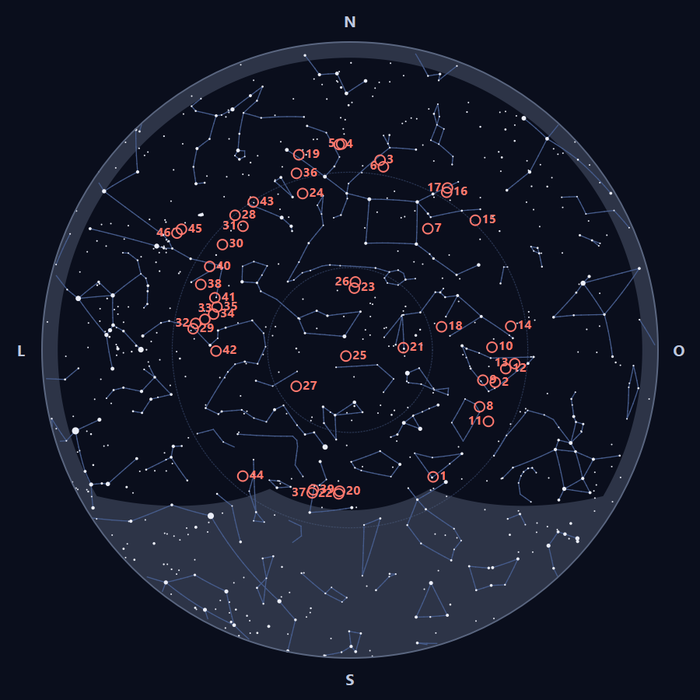
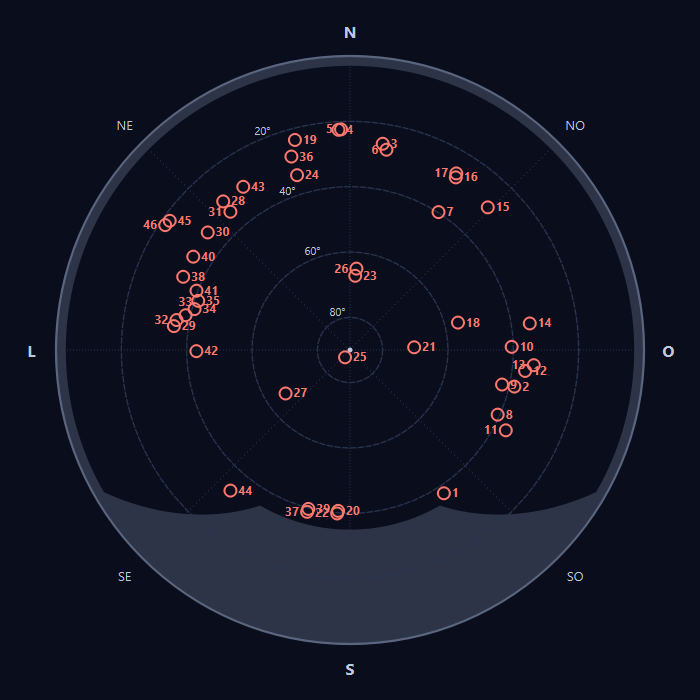
fix: rastreamento perto do polo, gráfico anual a partir de 0° e mapa da noite sem estrelas
- B-025: no rastreamento, a variável que espelha o azimute era
  sobrescrita no laço dos rótulos e os pontos seguintes saíam da carta
  (NGC 104). Marcador a cada 30 min, rótulos '19h' nas horas cheias e
  linha guia quando o rótulo se afasta do ponto.
- Gráfico de altitude ao longo do ano: 0° é a base, nada abaixo do
  horizonte é exibido; leitura ao pairar diz 'abaixo do horizonte'.
- Mapa da noite do PDF: sem estrelas e constelações (não correspondiam
  às posições dos alvos, cada um num horário); círculos de 20°, 40°,
  60° e 80°, oito pontos cardeais e rumos, projeção equidistante.

diff --git a/src/carina/ui/finderchart.py b/src/carina/ui/finderchart.py
@@ -341,46 +341,34 @@ def _draw_compass(p: QPainter, size_px: int, pal: dict | None = None) -> None:
 # Carta geral da noite (v0.15 T13)
 # ---------------------------------------------------------------------------
 
-def render_overview_chart(plan, stars, const_lines, size_px: int = 1400,
+def render_overview_chart(plan, stars=None, const_lines=None, size_px: int = 1400,
                           theme: str = "light", when_utc=None) -> QImage:
-    """Céu inteiro (projeção estereográfica do zênite) com os alvos numerados.
+    """Mapa da noite: o céu visto de baixo com os alvos numerados.
 
     Convenção de carta para segurar acima da cabeça: norte em cima, **leste
-    à esquerda**. Estrelas e linhas de constelação são as do instante
-    ``when_utc`` (padrão: meio da janela da noite); cada alvo aparece na
-    posição do **seu horário agendado**, com o número da parada — é o mapa
-    de "para onde apontar" ao longo da noite. Com horizonte do quintal, a
-    silhueta é sombreada na borda.
+    à esquerda**. Cada alvo aparece na posição do **seu horário agendado**,
+    com o número da parada. Não há estrelas nem constelações de fundo: como
+    cada alvo está num horário diferente, um céu de um instante só não
+    corresponderia às posições e confundiria (pedido do usuário, pré-0.16).
+    A orientação vem de círculos de altitude (20°, 40°, 60°, 80°), dos oito
+    pontos cardeais e, havendo horizonte do quintal, da silhueta sombreada.
+
+    ``stars``, ``const_lines`` e ``when_utc`` ficam por compatibilidade.
     """
     pal = CHART_THEMES.get(theme, _LIGHT)
-    engine = plan.engine
-    if when_utc is None:
-        when_utc = plan.night_start + (plan.night_end - plan.night_start) / 2
-    m = engine.horizontal_matrix(engine.ts.from_datetime(when_utc))
     img = QImage(size_px, size_px, QImage.Format_RGB32)
     img.fill(pal["bg"])
     p = QPainter(img)
     p.setRenderHint(QPainter.Antialiasing)
     cx = cy = size_px / 2.0
-    radius = size_px / 2.0 - size_px * 0.06
+    radius = size_px / 2.0 - size_px * 0.08
+    k = size_px / 1400.0
 
     def xy_altaz(alt_deg: float, az_deg: float):
-        z = math.radians(90.0 - alt_deg)
-        rr = radius * math.tan(z / 2.0)               # horizonte: tan(45°) = 1
+        rr = radius * (90.0 - max(0.0, min(90.0, alt_deg))) / 90.0   # equidistante
         a = math.radians(az_deg)
         return QPointF(cx - rr * math.sin(a), cy - rr * math.cos(a))
 
-    def xy_vec(h):
-        alt = math.degrees(math.asin(max(-1.0, min(1.0, float(h[2])))))
-        az = math.degrees(math.atan2(float(h[1]), float(h[0]))) % 360.0
-        return xy_altaz(alt, az), alt
-
-    # grade: horizonte, 30° e 60°, e os cardeais
-    p.setPen(QPen(pal["grid"], 1.2, Qt.DotLine))
-    p.setBrush(Qt.NoBrush)
-    for alt in (30.0, 60.0):
-        rr = radius * math.tan(math.radians(90.0 - alt) / 2.0)
-        p.drawEllipse(QPointF(cx, cy), rr, rr)
     # horizonte do quintal: anel sombreado entre 0° e o perfil
     horizon = getattr(plan, "horizon", None)
     if horizon is not None and not horizon.is_flat:
@@ -398,39 +386,43 @@ def render_overview_chart(plan, stars, const_lines, size_px: int = 1400,
         p.drawPath(path.subtracted(hole))
         p.setBrush(Qt.NoBrush)
 
-    # linhas de constelação acima do horizonte
-    if const_lines is not None:
-        p.setPen(QPen(pal["const"], 1.3))
-        hv = const_lines.verts.astype(np.float64) @ m.T
-        for a, b in const_lines.segments:
-            if hv[a, 2] < 0.0 or hv[b, 2] < 0.0:
-                continue
-            pa, _ = xy_vec(hv[a])
-            pb, _ = xy_vec(hv[b])
-            p.drawLine(pa, pb)
+    # raios dos oito rumos
+    p.setPen(QPen(pal["grid"], 1.0 * max(1.0, k), Qt.DotLine))
+    for az in range(0, 360, 45):
+        p.drawLine(QPointF(cx, cy), xy_altaz(0.0, az))
 
-    # estrelas até a magnitude 5
-    count = stars.count_brighter_than(5.0)
-    hs = stars.xyz[:count].astype(np.float64) @ m.T
+    # círculos de altitude com rótulo
+    label_font = QFont("Segoe UI", max(8, int(size_px / 85)))
+    p.setFont(label_font)
+    for alt in (20.0, 40.0, 60.0, 80.0):
+        rr = radius * (90.0 - alt) / 90.0
+        p.setPen(QPen(pal["grid"], 1.3 * max(1.0, k), Qt.DashLine))
+        p.setBrush(Qt.NoBrush)
+        p.drawEllipse(QPointF(cx, cy), rr, rr)
+        p.setPen(pal["text"])
+        lab = f"{alt:.0f}°"
+        w = p.fontMetrics().horizontalAdvance(lab)
+        # rótulo no rumo NE, entre os raios, para não cobrir alvos do N/S
+        a = math.radians(22.5)
+        p.drawText(QPointF(cx - rr * math.sin(a) - w / 2, cy - rr * math.cos(a) - 4), lab)
+    p.setBrush(pal["text"])
     p.setPen(Qt.NoPen)
-    p.setBrush(pal["star"])
-    for i in np.nonzero(hs[:, 2] > 0.0)[0]:
-        pt, _ = xy_vec(hs[i])
-        r = max(1.0, (5.8 - 0.95 * float(stars.mag[i])) * size_px / 1400.0)
-        p.drawEllipse(pt, r, r)
-
-    # moldura do horizonte e cardeais
-    p.setPen(QPen(pal["frame"], 2.0))
+    p.drawEllipse(QPointF(cx, cy), 2.5 * max(1.0, k), 2.5 * max(1.0, k))   # zênite
     p.setBrush(Qt.NoBrush)
+
+    # horizonte e os oito pontos cardeais
+    p.setPen(QPen(pal["frame"], 2.2 * max(1.0, k)))
     p.drawEllipse(QPointF(cx, cy), radius, radius)
-    font = QFont("Segoe UI", max(9, int(size_px / 60)), QFont.Bold)
-    p.setFont(font)
-    p.setPen(pal["text"])
-    for name, az in (("N", 0.0), ("L", 90.0), ("S", 180.0), ("O", 270.0)):
+    for name, az in (("N", 0.0), ("NE", 45.0), ("L", 90.0), ("SE", 135.0),
+                     ("S", 180.0), ("SO", 225.0), ("O", 270.0), ("NO", 315.0)):
+        big = len(name) == 1
+        p.setFont(QFont("Segoe UI", max(9, int(size_px / (55 if big else 70))),
+                        QFont.Bold if big else QFont.Normal))
+        p.setPen(pal["text"])
         a = math.radians(az)
-        x = cx - (radius + size_px * 0.03) * math.sin(a)
-        y = cy - (radius + size_px * 0.03) * math.cos(a)
-        p.drawText(QRectF(x - 30, y - 20, 60, 40), Qt.AlignCenter, name)
+        dist = radius + size_px * 0.035
+        x, y = cx - dist * math.sin(a), cy - dist * math.cos(a)
+        p.drawText(QRectF(x - 40, y - 22, 80, 44), Qt.AlignCenter, name)
 
     # alvos numerados na posição do horário de cada um
     num_font = QFont("Segoe UI", max(8, int(size_px / 75)), QFont.Bold)

diff --git a/tests/test_track_markers.py b/tests/test_track_markers.py
@@ -1,0 +1,62 @@
+"""Rastreamento (correção pré-0.16): marcador a cada 30 min dentro da
+carta e rótulos "19h" nas horas cheias — inclusive perto do polo sul
+(NGC 104), onde os pontos saíam da carta depois do primeiro rótulo."""
+
+import datetime as dt
+import math
+from pathlib import Path
+
+import pytest
+
+EPHEM = Path(__file__).resolve().parent.parent / "data" / "ephemeris"
+
+
+@pytest.mark.parametrize("ra_h,dec_d", [(0.401, -72.08), (5.588, -5.39)],
+                         ids=["NGC104", "M42"])
+def test_markers_inside_chart(ra_h, dec_d):
+    if not (EPHEM / "de440s.bsp").exists():
+        pytest.skip("efeméride ausente")
+    import numpy as np
+    from PySide6.QtCore import QPointF, QRectF
+    from PySide6.QtGui import QImage, QPainter
+
+    from carina.config import ObserverLocation
+    from carina.core.engine import SkyEngine
+    from carina.core.localtime import to_local
+    from carina.core.tracking import compute_track
+    from carina.ui.track_window import TrackCanvas, TrackSettings
+
+    e = SkyEngine(EPHEM)
+    e.set_location(ObserverLocation())
+    ra, dec = math.radians(ra_h * 15), math.radians(dec_d)
+    vec = np.array([math.cos(dec) * math.cos(ra), math.cos(dec) * math.sin(ra),
+                    math.sin(dec)])
+    ref = dt.datetime(2026, 12, 20, 3, tzinfo=dt.timezone.utc)
+    res = compute_track(e, ("dso", 0), "alvo", vec, ref)
+    settings = TrackSettings()
+    canvas = TrackCanvas(res, settings, "Rio")
+
+    centers, texts = [], []
+
+    class Recorder(QPainter):
+        def drawEllipse(self, *args):
+            if args and isinstance(args[0], QPointF):
+                centers.append(args[0])
+            return super().drawEllipse(*args)
+
+        def drawText(self, *args):
+            texts.append(args[-1])
+            return super().drawText(*args)
+
+    img = QImage(1000, 1000, QImage.Format_RGB32)
+    p = Recorder(img)
+    canvas.render_to(p, QRectF(0, 0, 1000, 1000))
+    p.end()
+
+    expected = sum(1 for pt in res.points
+                   if (to_local(pt.when_utc).hour * 60 + to_local(pt.when_utc).minute) % 30 == 0)
+    markers = [c for c in centers if 0 <= c.x() <= 1000 and 0 <= c.y() <= 1000]
+    assert expected >= 6
+    assert len(markers) >= expected            # nenhum marcador sumiu da carta
+    hours = [t for t in texts if isinstance(t, str) and t.endswith("h") and t[:-1].isdigit()]
+    assert len(hours) >= expected // 2 - 2     # rótulos de hora cheia "19h"

diff --git a/src/carina/ui/track_window.py b/src/carina/ui/track_window.py
@@ -269,9 +269,12 @@ class TrackCanvas(QWidget):
                 ux, uy = dx / norm, dy / norm
                 tx, ty = -uy, ux
                 candidates = [(ux * r, uy * r) for r in (18, -18, 30, -30, 44, -44)]
-                for side in (22, -22):
-                    candidates.append((ux * 18 + tx * side, uy * 18 + ty * side))
-                    candidates.append((ux * 32 + tx * side, uy * 32 + ty * side))
+                # (não reutilizar o nome `side`: ele é o espelhamento do
+                # azimute usado por to_xy — sobrescrevê-lo jogava todos os
+                # pontos seguintes para fora da carta)
+                for off in (22, -22):
+                    candidates.append((ux * 18 + tx * off, uy * 18 + ty * off))
+                    candidates.append((ux * 32 + tx * off, uy * 32 + ty * off))
                 placed = None
                 for ox, oy in candidates:
                     box = QRectF(xy.x() + ox - 24, xy.y() + oy - 8, 48, 16)
@@ -281,10 +284,22 @@ class TrackCanvas(QWidget):
                 if placed is None:
                     continue
                 taken.append(placed)
+                c = placed.center()
+                if math.hypot(c.x() - xy.x(), c.y() - xy.y()) > 24:
+                    # rótulo afastado: linha guia até o ponto, para não
+                    # deixar dúvida de a que horário ele pertence
+                    lead = QColor(fg)
+                    lead.setAlpha(110)
+                    painter.setPen(QPen(lead, 0.8))
+                    vx, vy = c.x() - xy.x(), c.y() - xy.y()
+                    d = math.hypot(vx, vy)
+                    painter.drawLine(
+                        QPointF(xy.x() + vx / d * 5, xy.y() + vy / d * 5),
+                        QPointF(c.x() - vx / d * 10, c.y() - vy / d * 7))
                 painter.setPen(fg)
-                painter.drawText(
-                    placed, Qt.AlignCenter, local.strftime("%H:%M")
-                )
+                text = (f"{local.hour}h" if local.minute == 0
+                        else local.strftime("%H:%M"))
+                painter.drawText(placed, Qt.AlignCenter, text)
 
         # legenda no lugar escolhido (padrão: rodapé, abaixo do "S")
         if s.show_legend:

diff --git a/src/carina/ui/object_window.py b/src/carina/ui/object_window.py
@@ -127,11 +127,14 @@ class AltitudeChart(QWidget):
             return
         i = int(round((x - r.left()) / r.width() * (len(self.dates) - 1)))
         i = max(0, min(len(self.dates) - 1, i))
+        def fmt(v: float) -> str:
+            return f"{v:.0f}°" if v >= 0 else self.tr("abaixo do horizonte")
+
         QToolTip.showText(
             event.globalPosition().toPoint(),
-            self.tr("{d}: {m:.0f}° no meio da noite · máx. {x:.0f}°").format(
-                d=self.dates[i].strftime("%d/%m"), m=self.alt_mid[i],
-                x=self.alt_max[i]), self)
+            self.tr("{d}: meio da noite {m} · máx. {x}").format(
+                d=self.dates[i].strftime("%d/%m"), m=fmt(self.alt_mid[i]),
+                x=fmt(self.alt_max[i])), self)
 
     def paintEvent(self, event) -> None:
         p = QPainter(self)
@@ -152,7 +155,9 @@ class AltitudeChart(QWidget):
 
         def to_xy(i: int, alt: float) -> QPointF:
             fx = i / max(1, n - 1)
-            fy = 1.0 - (max(-10.0, min(90.0, alt)) + 10.0) / 100.0
+            # 0° é a base do gráfico: abaixo do horizonte nada é exibido
+            # (o trecho negativo sai da área e é recortado no desenho)
+            fy = 1.0 - min(90.0, alt) / 90.0
             return QPointF(plot.left() + fx * plot.width(),
                            plot.top() + fy * plot.height())
 
@@ -187,9 +192,14 @@ class AltitudeChart(QWidget):
             (self.alt_mid, QColor(255, 190, 90), 2.4),
         ):
             p.setPen(QPen(color, width))
+            p.save()
+            p.setClipRect(plot)
             pts = [to_xy(i, v) for i, v in enumerate(values)]
-            for a, b in zip(pts, pts[1:]):
+            for (a, b), (va, vb) in zip(zip(pts, pts[1:]), zip(values, values[1:])):
+                if va < 0.0 and vb < 0.0:
+                    continue
                 p.drawLine(a, b)
+            p.restore()
 
         # legenda
         p.setFont(QFont("Segoe UI", 8))

diff --git a/tests/test_object_card.py b/tests/test_object_card.py
@@ -122,3 +122,38 @@ def test_instrument_uses_minor_axis(ctx):
     card = ObjectCard(ctx)
     card.set_selection(("dso", _dso_id(ctx, "M 8")))
     assert card.summary()["instrument"] == "binoculo"
+
+
+def test_annual_chart_hides_below_horizon(monkeypatch):
+    """Gráfico anual: 0° é a base; nada abaixo dele é desenhado."""
+    import datetime as dt
+
+    from PySide6.QtCore import QPointF
+    from PySide6.QtGui import QPainter
+
+    from carina.ui import object_window
+    from carina.ui.object_window import AltitudeChart
+
+    dates = [dt.date(2026, 1, 1) + dt.timedelta(days=10 * i) for i in range(10)]
+    mid = [-30, -10, 5, 20, 40, 60, 40, 10, -5, -40]
+    chart = AltitudeChart(dates, mid, [v + 10 for v in mid])
+    chart.resize(600, 300)
+    lines = []
+
+    class Rec(QPainter):
+        def drawLine(self, *a):
+            if len(a) == 2 and isinstance(a[0], QPointF):
+                lines.append(a)
+            return super().drawLine(*a)
+
+    monkeypatch.setattr(object_window, "QPainter", Rec)
+    chart.grab()
+    plot = chart._plot_rect
+    assert plot is not None
+    curve = [ln for ln in lines if ln[1].x() > ln[0].x() + 1
+             and abs(ln[1].y() - ln[0].y()) > 0.01]
+    assert len(curve) >= 6
+    # nenhum segmento desenhado fica inteiramente abaixo de 0° (a base)
+    assert all(min(a.y(), b.y()) <= plot.bottom() + 0.5 for a, b in curve)
+    # os dois segmentos totalmente negativos (início e fim) foram omitidos
+    assert len(curve) <= 2 * (len(dates) - 1) - 2

diff --git a/src/carina/ui/plan_pdf.py b/src/carina/ui/plan_pdf.py
@@ -195,11 +195,11 @@ def write_plan_pdf(path: str, plan, stars=None, const_lines=None, progress=None,
         x0 = (W - size) / 2
         p.drawImage(QRectF(x0, state["y"], size, size), img)
         state["y"] += size + 10
-        paragraph("Carta geral da noite: segure acima da cabeça com o norte para o "
-                  "norte (leste à esquerda). Os números são as paradas do roteiro, cada "
-                  "uma na posição do seu horário; as estrelas, no meio da noite. Anéis "
-                  "pontilhados: 30° e 60° de altitude.", M, W - 2 * M, f_small,
-                  pal["muted"])
+        paragraph("Mapa da noite: segure acima da cabeça com o N voltado para o norte "
+                  "(leste à esquerda). Cada número é uma parada do roteiro, na direção e "
+                  "na altura em que o objeto estará no horário dela. Círculos "
+                  "tracejados: 20°, 40°, 60° e 80° de altitude; o ponto central é o "
+                  "zênite.", M, W - 2 * M, f_small, pal["muted"])
         writer.newPage()
         state["page"] += 1
         begin_page()

diff --git a/docs/PLANEJAMENTO.md b/docs/PLANEJAMENTO.md
@@ -273,9 +273,11 @@ o fim de semana da viagem ao céu escuro.
 
 `Ctrl+Shift+V` pré-visualiza e `Ctrl+P` exporta. O arquivo tem:
 
-1. **capa** com a **carta geral da noite** — o céu inteiro visto de
-   baixo, com cada parada numerada na posição do seu horário e o seu
-   horizonte sombreado;
+1. **capa** com o **mapa da noite** — o céu visto de baixo, com cada
+   parada numerada na direção e na altura em que estará no horário dela,
+   círculos de 20°, 40°, 60° e 80°, os oito pontos cardeais e o seu
+   horizonte sombreado. Não há estrelas de fundo: como cada parada tem um
+   horário, um céu de um instante só não bateria com as posições;
 2. **checklist** — uma linha por parada, com caixa para marcar;
 3. **um cartão por objeto** — carta de localização à esquerda e
    instruções à direita, com nasce, culmina, se põe, janela e nota.

diff --git a/docs/FUNCIONALIDADES.md b/docs/FUNCIONALIDADES.md
@@ -190,7 +190,7 @@ Detalhes completos em [PLANEJAMENTO.md](PLANEJAMENTO.md).
   mapa e na hora; reordenar e remover.
 - **Calendário de noites escuras** (`Ctrl+Shift+N`): horas sem Lua de cada
   noite do mês, com as três melhores destacadas.
-- **PDF de campo** com a carta geral da noite, checklist e cartas de
+- **PDF de campo** com o mapa da noite (paradas numeradas por direção e altura), checklist e cartas de
   localização, em tema claro, escuro ou vermelho; exportação em CSV e
   texto.
 
